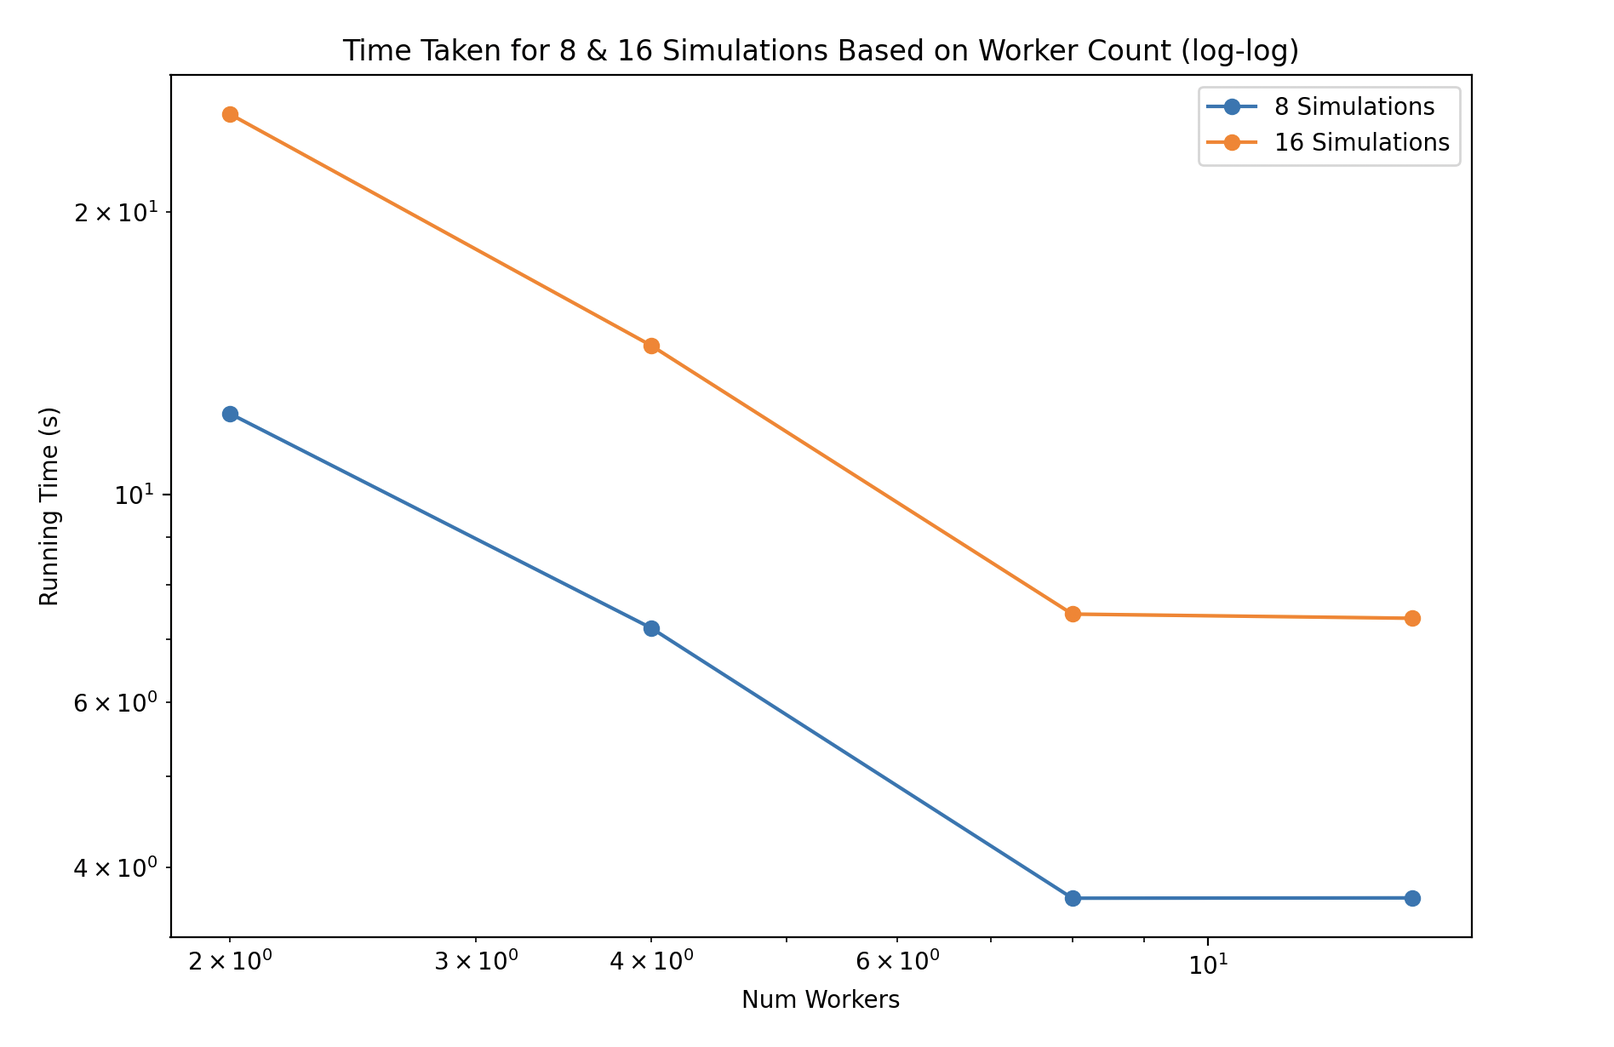
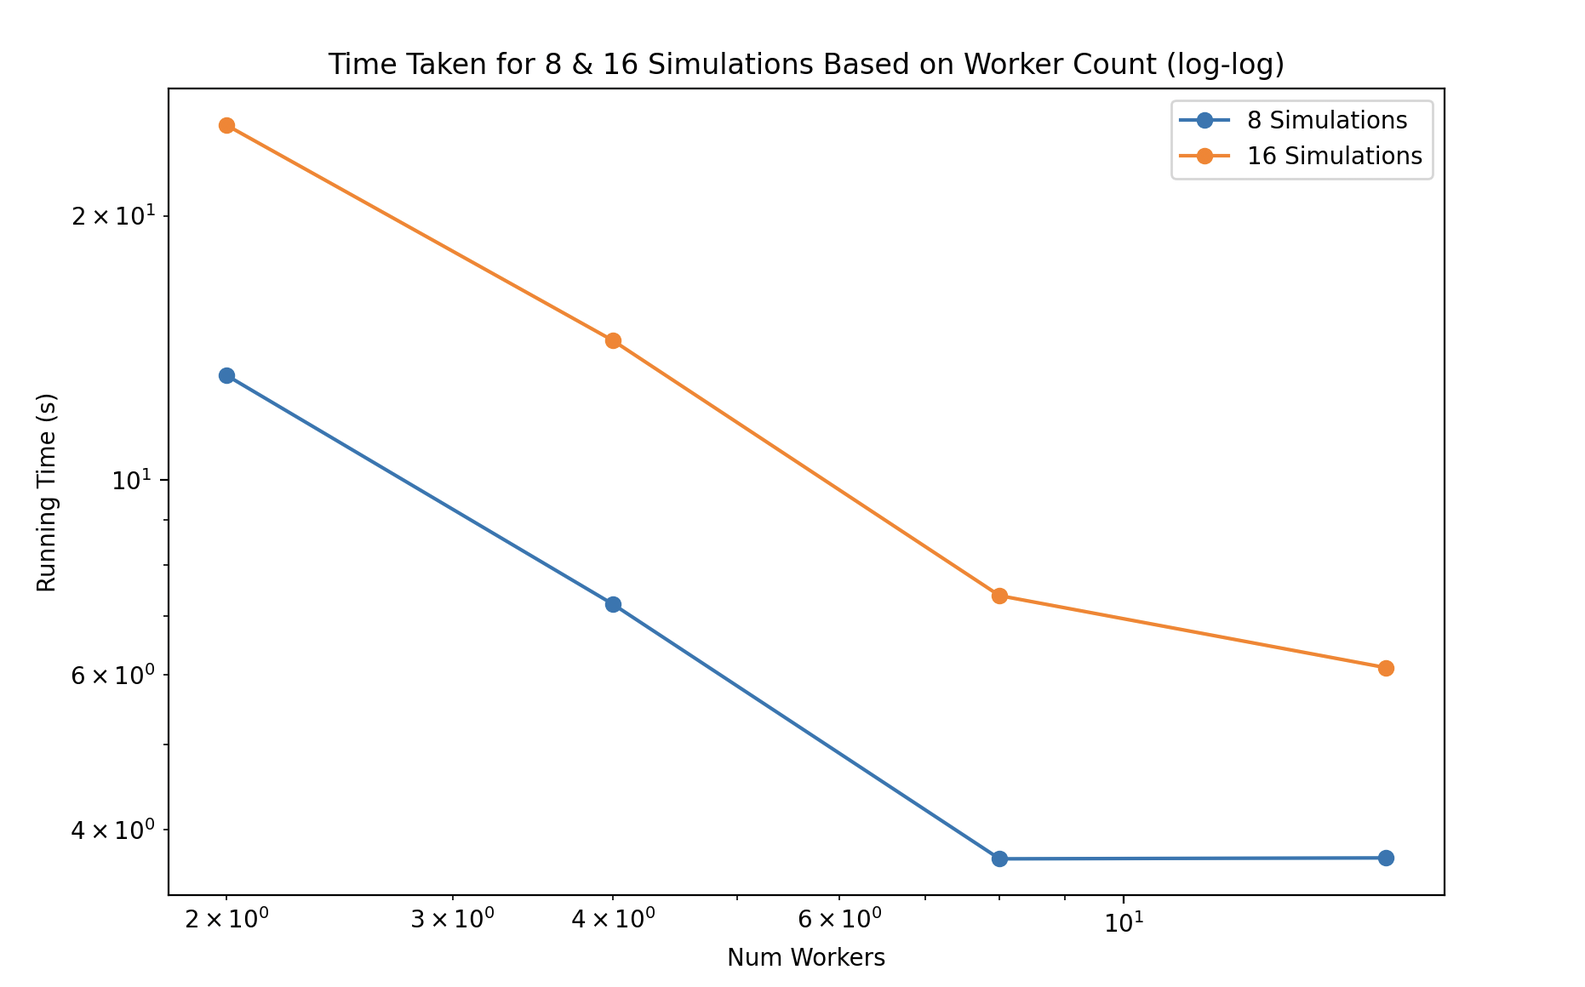
feat+docs(a4,ex1): finishing up most of the report and supporting documentation

diff --git a/04_parallel/report/report-assignment-4.tex b/04_parallel/report/report-assignment-4.tex
@@ -191,7 +191,8 @@
 \section*{Prefix}
 \todo[inline]{Make sure title and headers are correctly changed!}
 \todo[inline]{Change counter to match excercise sheet}
-\todo[inline]{Write report for exercise 1}
+\todo[inline]{Visualization VTK for Exercise 1}
+\todo[inline]{Visualization VTK for Bonus}
 
 % content begin
 %
@@ -200,8 +201,174 @@
 The code for this assignment can be found in the following github repository: \url{https://github.com/paulmyr/DD2358-HPC25/tree/master/04_parallel}.
 
 \section{Wildfire Spread in Parallel}
+The code and associated files for Exercise 1 can be found under the \verb|exercisd1/| directory of the repository, here: \url{https://github.com/paulmyr/DD2358-HPC25/tree/master/04_parallel/exercise1}. The original, serial implementation provided to us is present in the \verb|wildfiremontecarloserial.py| file. This code has been modified and has additional function to run multiple simulations, along with code to save the grid output at certain intervals for the VTK visualization. All the results and runtimes that follow were obtained an a 2021 M1 MacBook Pro (16 inch), which has 10 cores. More information on its specifications are \href{https://support.apple.com/en-us/111901}{here}.
+
+Since the essence of this task required us to run multiple visualizations, we refrain from outputting the visualization of the grid for each simulation at certain intervals. Instead, at the end of the simulation (for all implementations), we plot a line graph showing dotted lines with the number of burned trees for all simulations, along with a darker line showing the average number of trees burned per day using the data from all simulations. To make sure that the results are reproducible, we use seeds from 0 to $n-1$ for $n$ simulations for all implementations. 
+
+With this method, we get the following line-plot for the \textbf{serial implementation}, where we ran 5 simulations
 
 
+\begin{figure}[H]
+  \centering
+  \includegraphics[width=0.8\textwidth]{../images/a4_ex1_serial_example.png}
+  \caption{Average Trees Burned Per Day (Serial)}
+\end{figure}
+
+
+\subsection{Parallelization Using \textit{multiprocessing} Module}
+The code where we parallelize using the \verb|multiprocessing| module is present in the \verb|wildfiremontecarloparallel.py| file. To summarize our implementation, we use \verb|multiprocessing.Pool| to spawn as many worker processes as we need simulations, and then use the \verb|map| function of \verb|Pool| to distribute the independent simulations across workers. We then take a column-wise mean of the result accumulated in the 2D array, converting it to a \verb|numpy| array beforehand. Thus, we return the average number of trees burned on each day based on the results for that day from the independent simulations.
+
+With this implementation, we ran 5 simulations at once, and obtained the following line-plot. Notice that it is identical to the one obtained for the serial implementation, because of our use of seeds.
+
+
+\begin{figure}[H]
+  \centering
+  \includegraphics[width=0.8\textwidth]{../images/a4_ex1_multiprocessing_example.png}
+  \caption{Average Trees Burned Per Day (Multiprocessing)}
+\end{figure}
+
+\subsection{Parallelization Using Dask}
+For the Dask parallelization, we followed the steps below: 
+\begin{enumerate}
+\item Convert \verb|simulate_wildfire| to a Dask-Delayed function with the \verb|@delayed| annotation. We converted \verb|fire_spread| into a \verb|numpy| array before returning. This made the code for getting a dask array of the results cleaner.
+\item We created an array of delayed \verb|simulate_wildfire| \textbf{tasks}, where the number of delayed tasks was equal to the numer of independend simulations required.
+\item We created an intermediate array/data-structure of the delayed results (array) from the individual \verb|simulate_wildfire| tasks, using the \verb|from_delayed| function. The difference between this step and the previous one is that the former was an array of delayed \textbf{tasks}. However here, we are using the output that \textit{will} be returned from the tasks and indicating to Dask that we want them to be converted to Dask Arrays.
+\item We used the \verb|stack| method of \verb|dask.array| to give the array of individual simulation results a shape that will facilitate the averaging of the number of burned trees per day.
+\item We used the \verb|rechunk| operation on the result of the previous step to obtain chunks of required size. This was used to determine the impact of chunk-size (if any) on the run-time of the Dask optimization. Since the handout talked about converting the results of the simulations to a dask array, we assumed that the chunk-size impact was to be measured on this. We chunk our results array so that the averages for the days can be computed in parallel. Thus, the chunk size will have the form (\verb|num_simulations|, $x$), where $x$ is the number of days we want to assign to each chunk.
+\item Finally, we average the burning trees for each day and compute the result. 
+\end{enumerate}
+
+With this implementation, we obtained the following line-plot for 5 simulations (identical to the plot for the previous 2 implementations because of seeding).
+
+\begin{figure}[H]
+  \centering
+  \includegraphics[width=0.8\textwidth]{../images/a4_ex1_dask_example.png}
+  \caption{Average Trees Burned Per Day (Dask)}
+\end{figure}
+
+We also utilized the local \verb|Client| from \verb|dask.distributed|. We used the default configuration of the client, which on the 2021 M1 MacBook Pro (16''), was \textbf{\underline{5 workers, each with 2 threads}}. 
+
+You can see a videos showing information from the \textbf{Status} and \textbf{Worker} Panel of the Dask Dashboard in the \verb|README.md| file for this directory at the repository, here: \href{https://github.com/paulmyr/DD2358-HPC25/tree/master/04_parallel/exercise1#readme}{link}. These recordings are from running 5 simulations at once using our Dask parallelization technique. 
+
+The \textbf{Status} panel video (\href{https://github.com/paulmyr/DD2358-HPC25/tree/master/04_parallel/exercise1#the-status-panel}{link}) shows us the change in memory consumption, task distribution to the threads by the scheduler, and other important information at a glance. 
+
+The \textbf{Workers} panel video (\href{https://github.com/paulmyr/DD2358-HPC25/tree/master/04_parallel/exercise1#the-workers-panel}{link}) shows us information about CPU usage and memory usage for each worker. Here, we can see that the workers seem to be busy (at almost 100\% CPU capacity) most of the time, which indicates that Dask Scheduler did a \textbf{reasonably good} job of allocating jobs to the workers in this run. Most of the work seems to be done during the \verb|from_delayed| computation, as the blue rectangles seem to refer to a \verb|from-value| call, which we assume to be that method. 
+
+Below, we also attach a screenshot of the \textbf{Task Stream} Panel during a 5-simulation run, where we can see the task distribution across the 10 threads more easily. In this run, it seems that 3 threads had a minimal amount of work to do, as there are almost no rectangles allocated to them. 
+
+\begin{figure}[H]
+  \centering
+  \includegraphics[width=0.8\textwidth]{../images/a4_ex1_dask_task_stream.png}
+  \caption{Task Stream for 5 Simulations}
+\end{figure}
+
+\subsection*{Note: Correctness Verification of Parallel Approaches}
+The \verb|wildfire_test.py| file contains some parameterized-tests that ensure that the averages returned for certain number of simulations by the \verb|multiprocessing| and \verb|Dask| parallelization techniques match the output returned by the \verb|serial| technique. We use seeding to ensure reproducability of the results. All these tests pass.
+
+\subsection{Performance Comparison \& Questions}
+
+\subsubsection{Performance Comparison}
+The plot below shows the execution time of the 3 implementations for different number of simulations. 
+\begin{figure}[H]
+  \centering
+  \includegraphics[width=0.6\textwidth]{../images/a4_ex1_runtime_comparison.png}
+  \caption{Execution Time Comparison of the 3 Approaches}
+\end{figure}
+
+Below you can see the textual output visualized in the plot above:
+
+\begin{lstlisting}[language=bash,basicstyle=\tiny\ttfamily]
+$ sudo python3 wildfire_profile.py
+PROFILING COMPUTATION FOR serial IMPLEMENTATION (runs=3)
+Avg Time for 1 simulations: 3.445551611002884 s 
+Avg Time for 2 simulations: 6.9186229303353075 s 
+Avg Time for 4 simulations: 8.648581541667227 s 
+Avg Time for 8 simulations: 22.92307461099699 s 
+Avg Time for 16 simulations: 49.92087736133059 s 
+PROFILING COMPUTATION FOR multiprocessing IMPLEMENTATION (runs=3)
+Avg Time for 1 simulations: 3.9312227636692114 s 
+Avg Time for 2 simulations: 4.07437822233381 s 
+Avg Time for 4 simulations: 4.142661333661333 s 
+Avg Time for 8 simulations: 4.285970041664162 s 
+Avg Time for 16 simulations: 7.470850749998742 s 
+PROFILING COMPUTATION FOR dask IMPLEMENTATION (runs=3)
+Avg Time for 1 simulations: 3.5319369026692584 s 
+Avg Time for 2 simulations: 3.5974722913330575 s 
+Avg Time for 4 simulations: 3.5950862220003423 s 
+Avg Time for 8 simulations: 3.6969253473265176 s 
+Avg Time for 16 simulations: 6.064963166335171 s 
+\end{lstlisting}
+
+For Dask, we used \textbf{as many workers as number of simulations (1 thread per worker)}. The code for this can be found in the \verb|wildfire_profile.py| file. \textit{Note: On the laptop with specifications defined above, we had to increase the \textbf{ulimit} on the command line to get 16 workers in this and any profiling that follows. Without this, we got \textbf{Too Many Files Open} exceptions, similar to this SO thread: \href{https://stackoverflow.com/questions/18280612/ioerror-errno-24-too-many-open-files}{link}}. 
+
+The number of simulations are powers of 2 in the range of $1\dots16$. From the figure, it is clear that \textbf{both parallel approaches outperform the serial approach}. For 1 simulation, the serial approach is slightly better. This makes sense to us, as the cost of setting up the \verb|multiprocessing|/Dask overhead would make it difficult to see any performance gain for a single simulation. However, as we increase the number of simulations, the serial approach can only execute 1 independent simulation at a time, while \verb|multiprocessing| and Dask then seem to gain advantage of multipple parallel executions. 
+
+Overall, \textbf{Dask seems to outperform the other approaches}. Note that for both the parallel approaches, the runtime seems to be unchanged up until 8 simulations. However, as soon as we jump to 16 simulations, there is a noticeable increase in the runtime. We believe that this can be attributed to the fact that we are trying to run \textbf{more parallel jobs than cores available} on the machine. As mentioned above, the setup has 10 cores. Thus, running 16 simulations in parallel using 16 processes or workers is impossible. Thus, there seems to be some contention to run on the 10 cores available, which likely explains the pattern observed here.
+
+\subsubsection{Which version is the fastest?}
+As examined above, the \textbf{Dask approach} seems to be the fastest.
+
+\subsubsection{How well does Dask scale with different number of workers?}
+We compared the running time for running 8 and 16 simulations as the number of workers increase from $2 \rightarrow 4 \rightarrow 8 \rightarrow 16$ (with 1 thread per worker). The code for this can be found in the \verb|worker_profile.py| file. On doing so, we obtained the following plot
+\begin{figure}[H]
+  \centering
+  \includegraphics[width=0.6\textwidth]{../images/a4_ex1_worker_comparison.png}
+  \caption{Impact of \#Workers on Dask Parallel Simulations}
+\end{figure}
+
+Below you can see the textual output that is being visualized in the plot above:
+\begin{lstlisting}[language=bash,basicstyle=\tiny\ttfamily]
+$ python3 worker_profile.py
+PROFILING COMPUTATION FOR DASK IMPLEMENTATION (runs=3, workers=2)
+Avg Time for 8 simulations: 13.164127069331395 s 
+Avg Time for 16 simulations: 25.36850654166483 s 
+PROFILING COMPUTATION FOR DASK IMPLEMENTATION (runs=3, workers=4)
+Avg Time for 8 simulations: 7.221452972332675 s 
+Avg Time for 16 simulations: 14.417073847662929 s 
+PROFILING COMPUTATION FOR DASK IMPLEMENTATION (runs=3, workers=8)
+Avg Time for 8 simulations: 3.7034622503318437 s 
+Avg Time for 16 simulations: 7.384757389004032 s 
+PROFILING COMPUTATION FOR DASK IMPLEMENTATION (runs=3, workers=16)
+Avg Time for 8 simulations: 3.7125208473347207 s 
+Avg Time for 16 simulations: 6.11314287466909 s
+\end{lstlisting}
+
+In general, the pattern seems to be that an \textbf{increase in the number of workers reduces the running time}. This is in line with our expectations. On the plot, it is interesting to see that there is a sharp decline in the runtime up until 8 workers -- likely because all 8 workers can work in parallel on the 10 available cores. However, the rate at which the runtime declines for 16 workers is not as steep. 
+
+For 8 simulations, this could be because increasing the number of workers beyond the number of parallel simulations would just mean that some workers end up doing nothing, and so it has minimal effect. However, for the 16 simulations case, this could point to the limitations in the amount of parallelism that can be achieved when we have more workers than available cores. Even then, there does seem to be a slight decline in runtime for the 16 workers -- 16 simulations combination. 
+
+So, increasing workers (assuming they all have 1 thread) seems to be one easy way of improving performance for Dask, and thus Dask seems to \textbf{scale well} with the number of workers. 
+
+\subsubsection{How does chunk size affect performance?}
+To examine the impact of chunk size in the computation of the average on the final dask-array for the 60 days across simulations, we \textbf{varied the number of days} that are allocated to each chunk when computing the averages. The chunk sizes varied from $10 \rightarrow 20 \rightarrow 30 \rightarrow 60$ days. We ran a constant 8 simulations with this setup, using the default configuration of \verb|Client| on our machine, with \textbf{\underline{5 workers and 2 threads per worker}}. The code for this can be found in the \verb|chunk_profile.py| file. 
+
+With this setup, we obtained the following plot of the runtime when varying the chunk-sizes: 
+\begin{figure}[H]
+  \centering
+  \includegraphics[width=0.6\textwidth]{../images/a4_ex1_chunks.png}
+  \caption{Impact of Chunk Sizes on Dask Parallel Simulations}
+\end{figure}
+
+Below you can see the textual output that is being visualized in the plot above:
+\begin{lstlisting}[language=bash,basicstyle=\tiny\ttfamily]
+$ python3 chunk_profile.py
+PROFILING COMPUTATION FOR DASK IMPLEMENTATION (runs=3, chunk_columns=10)
+Avg Time for 8 simulations: 7.120227680667692 s 
+PROFILING COMPUTATION FOR DASK IMPLEMENTATION (runs=3, chunk_columns=20)
+Avg Time for 8 simulations: 7.124035903000428 s 
+PROFILING COMPUTATION FOR DASK IMPLEMENTATION (runs=3, chunk_columns=30)
+Avg Time for 8 simulations: 7.120728333335137 s 
+PROFILING COMPUTATION FOR DASK IMPLEMENTATION (runs=3, chunk_columns=60)
+Avg Time for 8 simulations: 7.04620731966376 s
+\end{lstlisting}
+
+In all cases, the chunk size has \textbf{\underline{minimal impact}} on the runtime of the Dask implementation. All these runtimes are incredibly similar, with the fastest one being when we have 1 chunk (ie, when \verb|chunk_columns=60|). Even then, the runtime seems close enough to the other cases for it to not be of high significance. This is similar to our expectations -- as we feel that the final Dask array we are working with (with 8 simulations) to not be big enough to have any noticeable performance improvements with chunking. 
+
+We believe that we will start seeing noticeable differences when it comes to chunking when the final array over which the average is computed gets big enough such that chunk-size determines whether or not that array is able to fit in to the processor cache. However, up until 128 simulations (which would give us a $128 \times 60$ result grid over which the average is computed), the chunk size did not seem to impact runtime on our setup. 
+
+Thus, we believe that \textbf{chunk size has minimal impact on execution time} up to atleast 100 simulations being run in parallel using Dask on our setup
+
+\subsection{VTK Visualization of the Grid}
 
 \section{Bonus: Ocean Circulation with Dask}
 The code and associated files for the bonus section can be found under the \verb|bonus/| directory of the repository, here: \url{https://github.com/paulmyr/DD2358-HPC25/tree/master/04_parallel/bonus}. The original code provided to us can be found in the \verb|ocean_deafult.py| file -- with some augmentation to help with profiling and testing against the Dask implementation. The observations made, including the screenshots and video recordings, were obtained on a 2021 M1 MacBook Pro (16 inch), the specifications for which can be found \href{https://support.apple.com/en-us/111901}{here}.

diff --git a/04_parallel/exercise1/wildfiremontecarloserial.py b/04_parallel/exercise1/wildfiremontecarloserial.py
@@ -1,5 +1,6 @@
 import numpy as np
 import matplotlib.pyplot as plt
+import pyvtk 
 import random
 
 # Constants
@@ -38,13 +39,30 @@ def get_neighbors(x, y):
             neighbors.append((nx, ny))
     return neighbors
 
+def save_to_vtk(filename, forest):
+    """
+    Save the forest data to VTK files
+    """
+    forest_np = np.array(forest)
+    nx, ny = forest_np.shape
 
-def simulate_wildfire(seed=None, continuous_plot=False):
+    vtk_data = pyvtk.VtkData(
+        pyvtk.StructuredPoints([nx, ny, 1]),
+        pyvtk.PointData(
+            pyvtk.Scalars(forest_np, name="forest_status") # The status of the forest is a scalar field
+        )
+    )
+    vtk_data.tofile(filename)
+    print(f"Saved VTK File: {filename}")
+
+
+def simulate_wildfire(seed=None, continuous_plot=False, save_to_vtk=False):
     """Simulates wildfire spread over time."""
     custom_rand = random.Random(seed)
     forest, burn_time = initialize_forest(custom_rand)
 
     fire_spread = []  # Track number of burning trees each day
+    output_count=1 # The VTK file output count
 
     for day in range(DAYS):
         new_forest = forest.copy()
@@ -72,6 +90,11 @@ def simulate_wildfire(seed=None, continuous_plot=False):
                 fire_spread += [0 for _ in range(DAYS - 1 - day)]
             break
 
+        if save_to_vtk and ((day % 5 == 0 or day == DAYS - 1)):
+            vtk_filename = f"vtk/frame_{output_count:03d}.vtk"
+            save_to_vtk(vtk_filename, forest)
+            output_count += 1
+
         # Plot grid every 5 days
         if continuous_plot and (day % 5 == 0 or day == DAYS - 1):
             plt.figure(figsize=(6, 6))
@@ -81,6 +104,15 @@ def simulate_wildfire(seed=None, continuous_plot=False):
             plt.show()
 
     return fire_spread
+
+
+def run_and_save_vtk():
+    """
+    Run a SINGLE simulation, saving the forest output periodically to vtk files
+    """
+    # We don't care about the result returned here
+    simulate_wildfire(seed=1, save_to_vtk=True)
+    
 
 
 def run_n_simulations_default(n_simulations=1, seeds=None, no_print=False, show_line_plot=False):
@@ -114,12 +146,15 @@ def run_n_simulations_default(n_simulations=1, seeds=None, no_print=False, show_
 
 if __name__ == "__main__":
     # Run Multiple Simulations Serially
-    fire_spread_over_time = run_n_simulations_default(n_simulations=5, seeds=[i for i in range(5)], show_line_plot=True)
+    # fire_spread_over_time = run_n_simulations_default(n_simulations=5, seeds=[i for i in range(5)], show_line_plot=True)
 
-    # Plot results
-    plt.plot(range(len(fire_spread_over_time)), fire_spread_over_time, label="Burning Trees")
-    plt.xlabel("Days")
-    plt.ylabel("Number of Burning Trees")
-    plt.title("Wildfire Spread Over Time [Serial]")
-    plt.legend()
-    plt.show()
+    # # Plot results
+    # plt.plot(range(len(fire_spread_over_time)), fire_spread_over_time, label="Burning Trees")
+    # plt.xlabel("Days")
+    # plt.ylabel("Number of Burning Trees")
+    # plt.title("Wildfire Spread Over Time [Serial]")
+    # plt.legend()
+    # plt.show()
+
+    # Uncomment this to save to VTK files
+    run_and_save_vtk()

diff --git a/04_parallel/exercise1/wildfire_profile.py b/04_parallel/exercise1/wildfire_profile.py
@@ -19,18 +19,20 @@ def profile_function(func_to_profile, impl_type):
     print(f"PROFILING COMPUTATION FOR {impl_type} IMPLEMENTATION (runs={NUM_RUNS})")
 
     for curr_sims in NUM_SIMS:
-        total_time = 0
-        seeds = [i for i in range(curr_sims)]
+        # Create as many workers as there are simulations to get as much parallelism as possible. Also just use 1 thread.
+        with Client(n_workers=curr_sims, threads_per_worker=1) as client:
+            total_time = 0
+            seeds = [i for i in range(curr_sims)]
 
-        for _ in range(NUM_RUNS):
-            t1 = timer()
-            # We don't care about the result here
-            func_to_profile(n_simulations=curr_sims, seeds=seeds, no_print=True)
-            t2 = timer()
-            total_time += (t2 - t1)
+            for _ in range(NUM_RUNS):
+                t1 = timer()
+                # We don't care about the result here
+                func_to_profile(n_simulations=curr_sims, seeds=seeds, no_print=True)
+                t2 = timer()
+                total_time += (t2 - t1)
         
-        times.append(total_time / NUM_RUNS)
-        print(f"Avg Time for {curr_sims} simulations: {total_time / NUM_RUNS} s ")
+            times.append(total_time / NUM_RUNS)
+            print(f"Avg Time for {curr_sims} simulations: {total_time / NUM_RUNS} s ")
     
     # Plot the timess
     plt.loglog(NUM_SIMS, times, marker="o", linestyle='-', label=impl_type)
@@ -42,10 +44,8 @@ def profile():
     # Get the times
     profile_function(run_n_simulations_default, "serial")
     profile_function(run_n_simulations_parallel, "multiprocessing")
+    profile_function(run_n_simulations_dask, "dask")
 
-    # Use the distributed Client -- defaults to 5 workers, 2 threads per worker on M1 Macbook Pro 2021 (16 inch)
-    with Client() as client:
-        profile_function(run_n_simulations_dask, "dask")
 
     # Adding labels to the axes
     plt.xlabel('Num Simulations')

diff --git a/04_parallel/exercise1/wildfiremontecarlodask.py b/04_parallel/exercise1/wildfiremontecarlodask.py
@@ -111,10 +111,19 @@ def run_n_simulations_dask(n_simulations=NUM_SIMULATIONS, seeds=None, no_print=F
 
     actual_seeds = [None]*n_simulations if not seeds else seeds
 
+    # Array of delayed Dask Tasks
     tasks = [simulate_wildfire(i) for i in actual_seeds]
+    # Create this intermediate data structure so that we can eventually have a 2d Dask Array
+    # Note that all tasks in `tasks` *will* return a 1d array *once* they are computed. However,
+    # since `simulate_wildfire` is a delayed computation, we use `from_delayed` here instead of `from_array`
     output_as_dask = [da.from_delayed(burning, shape=(DAYS,), dtype=da.float32) for burning in tasks]
+    # We specify to dask how we want it to combine the outputs of the simulations. We want the columns to match
+    # ie, first index of sim1 to be "below" first index of sim2, etc. So, use axis=0
     dask_array = da.stack(output_as_dask, axis=0)
+    # This is used for testing how chunk-size impacts computation speed. We chunk our arrays so that averages for 
+    # each day(s) can be computed in parallel.
     rechunked_result = dask_array.rechunk(final_chunk_size)
+    # Finally, compute the average along the columns and get the result.
     result = rechunked_result.mean(axis=0).compute()
 
     if show_line_plot:

diff --git a/04_parallel/exercise1/worker_profile.py b/04_parallel/exercise1/worker_profile.py
@@ -3,9 +3,8 @@ import matplotlib.pyplot as plt
 from dask.distributed import Client
 from timeit import default_timer as timer
 
-# We keep the number of simulations at a constant 8.
 NUM_SIMS = [8, 16]
-NUM_WORKERS = [2, 4, 8, 14]
+NUM_WORKERS = [2, 4, 8, 16]
 NUM_RUNS = 3
 
 
